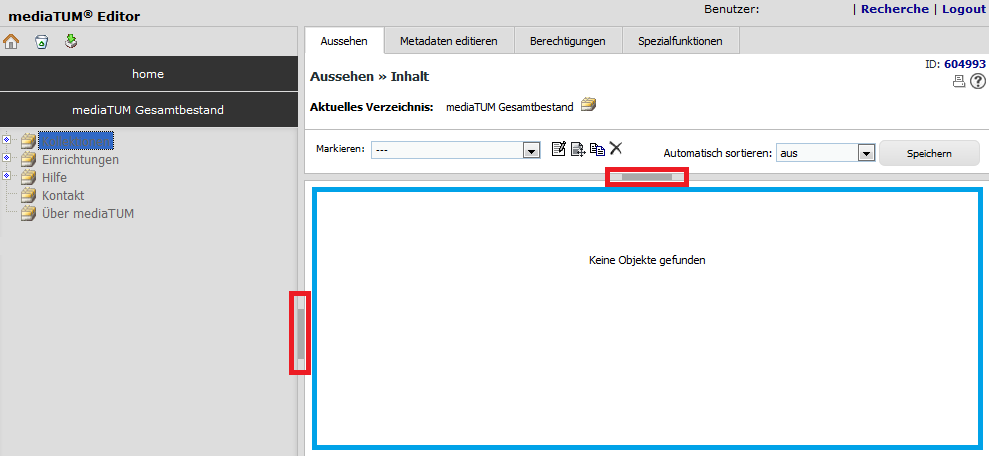
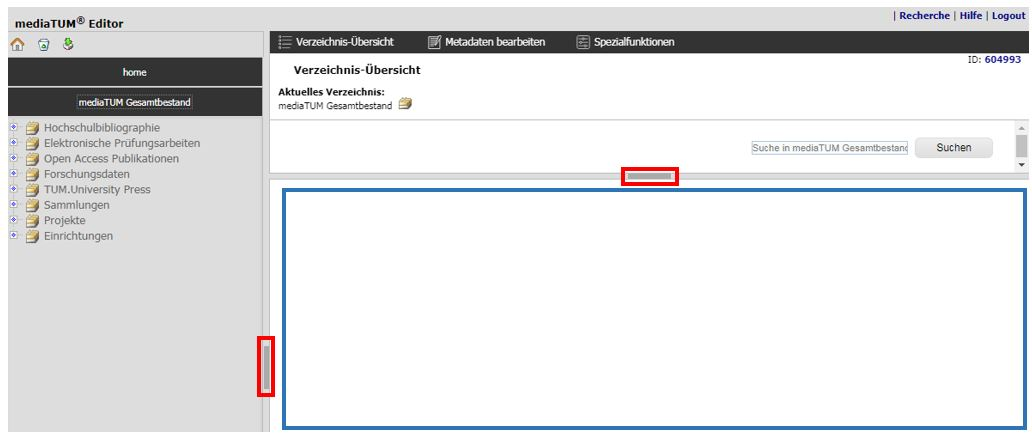
Update of chapter 3.1 Kurzanleitung

Changed region(s): [[0.0, 0.0, 1.0, 1.0], [0.5763, 0.5379, 0.728, 0.5977]]

diff --git a/docs/source/editor/index.rst b/docs/source/editor/index.rst
@@ -40,55 +40,50 @@ Editor öffnen
 Neue Dokumente erstellen
 ^^^^^^^^^^^^^^^^^^^^^^^^
 
-Möglichkeit 1: "Metadaten einstellen" anklicken
+Möglichkeit 1: "Metadaten-Eingabe" anklicken
 """""""""""""""""""""""""""""""""""""""""""""""
 
-- Wählen Sie Objekttyp und Metadatenschema aus.
-- Füllen Sie das Metadatenschema aus und speichern Sie Ihre Eingaben.
-- Klicken Sie in der oberen Navigation auf „Metadaten editieren > Digitale Objekte“.
-- Öffnen Sie „Optionen“, wählen Sie Ihre Datei aus und klicken Sie auf „Anlegen / Hochladen“.
+- Wählen Sie das Metadatenschema aus.
+- Füllen Sie die Eingabemaske aus und speichern Sie Ihre Eingaben.
+- Wenn Sie einen Volltext hochladen wollen, klicken Sie in der oberen Navigation auf „Datei hinzufügen“.
+- Wählen Sie Ihre Datei aus und klicken Sie auf „Anlegen / Hochladen“.
 
-.. figure:: images/ErstelleDatensatz2.jpg
-   :alt: ErstelleDatensatz2.jpg
+
+Möglichkeit 2: DOI-Import
+"""""""""""""""""""""""""
+
+- „DOI-Import“ anklicken.
+- Tragen Sie den DOI ein.
+- Klicken Sie auf „OK“.
+- Metadaten werden automatisch angelegt.
+- Überprüfen Sie die Metadaten und ergänzen Sie diese bei Bedarf.  
    
    
-Möglichkeit 2: "Datei(en) hochladen" anklicken
+Möglichkeit 3: "Datei hochladen" anklicken
 """"""""""""""""""""""""""""""""""""""""""""""
 
-- Wählen Sie Ihre Datei aus, laden Sie sie hoch und wählen Sie den Metadatentyp.
+- Wählen Sie Ihre Datei aus, laden Sie sie hoch, klicken Sie auf "Upload beginnen" und wählen Sie den Metadatentyp.
 - Mit „Objekte erzeugen“ wird ein neuer Datensatz angelegt.
 - Sie finden das Objekt im Bearbeitungsbereich Ihres Upload-Ordners.
 - Zum Editieren klicken Sie auf das Symbol |BearbeitenEdit| „Metadaten bearbeiten“ .
 
 
-Möglichkeit 3: BibTeX-Import
+Möglichkeit 4: BibTeX-Import
 """"""""""""""""""""""""""""
 
-- „Datei(en) hochladen“ anklicken.
+- „Bibtex-Import“ anklicken.
 - Laden Sie eine BibTeX-Datei hoch.
 - Wählen Sie „Objekte verarbeiten“ aus.
 - Es werden neue Datensätze angelegt.
 - Überprüfen und ergänzen Sie die Datensätze bei Bedarf.
    
-
-Möglichkeit 4: DOI-Import
-"""""""""""""""""""""""""
-
-- „Metadaten einstellen“ anklicken.
-- Wechseln Sie auf „von Identifier“.
-- Tragen Sie die DOI ein.
-- Klicken Sie auf „Objekt erzeugen“.
-- Metadaten werden automatisch angelegt.
-- Überprüfen Sie die Metadaten und korrigieren Sie diese bei Bedarf.   
    
 
-
-Veröffentlichen: Quick Publisher   
-^^^^^^^^^^^^^^^^^^^^^^^^^^^^^^^^   
+Veröffentlichen mit dem Veröffentlichungs-Assistenten
+^^^^^^^^^^^^^^^^^^^^^^^^^^^^^^^^^^^^^^^^^^^^^^^^^^^^^   
    
-In Ihrem Arbeitsbereich finden Sie nun den rot hervorgehobenen Hinweis, dass sich in Ihrem Upload-Ordner unveröffentlichte Dokumente befinden.
 
-- Klicken Sie auf „Unpublizierte Objekte jetzt publizieren (Quick Publisher)“.
+- Klicken Sie den Button „Veröffentlichungs-Assistent“.
 - Eine Übersicht der Dokumente wird nochmals dargestellt, darüber finden Sie „Verzeichnisse auswählen“.
 - Es öffnet sich der Verzeichnisbaum. Wählen Sie einen oder mehrere Zielordner aus.
 - Die Ordner werden übernommen und aufgelistet.
@@ -118,10 +113,9 @@ Daneben sind zahlreiche weitere Funktionen verfügbar.
 Der Editor-Bereich ist nur angemeldeten Nutzern zugänglich.
 Melden Sie sich bei mediaTUM an, indem Sie auf der Webseite
 links oben auf **Login** klicken. Geben Sie Ihre Kennung sowie das
-zugehörige Passwort ein und klicken auf **Anmelden**. Sie erkennen
-an der Anzeige Ihres Benutzernamens oben links, dass Sie eingeloggt
-sind. Klicken Sie nun oben links auf Bearbeiten, um in den
-Bearbeitungsmodus zu wechseln.
+zugehörige Passwort ein und klicken auf **Anmelden**. Oben links
+wird nun Ihr Benutzernamen angezeigt. Klicken Sie nun oben links 
+auf "Bearbeiten", um in den Bearbeitungsmodus zu wechseln.
 
 
 .. figure:: images/Edit.png
@@ -142,7 +136,7 @@ Bearbeitungsmodus zu wechseln.
 
 |ErstSchri1|
 
-Hier sehen Sie die Funktionen *Aussehen*, *Metadaten editieren*, *Berechtigungen* und *Spezialfunktionen*.
+Hier sehen Sie die Funktionen *Verzeichnis-Übersicht*, *Metadaten bearbeiten* und *Spezialfunktionen*.
 Diese Funktionen stehen Ihnen für das Bearbeiten von Objekten und Verzeichnissen zur Verfügung.
 
 
